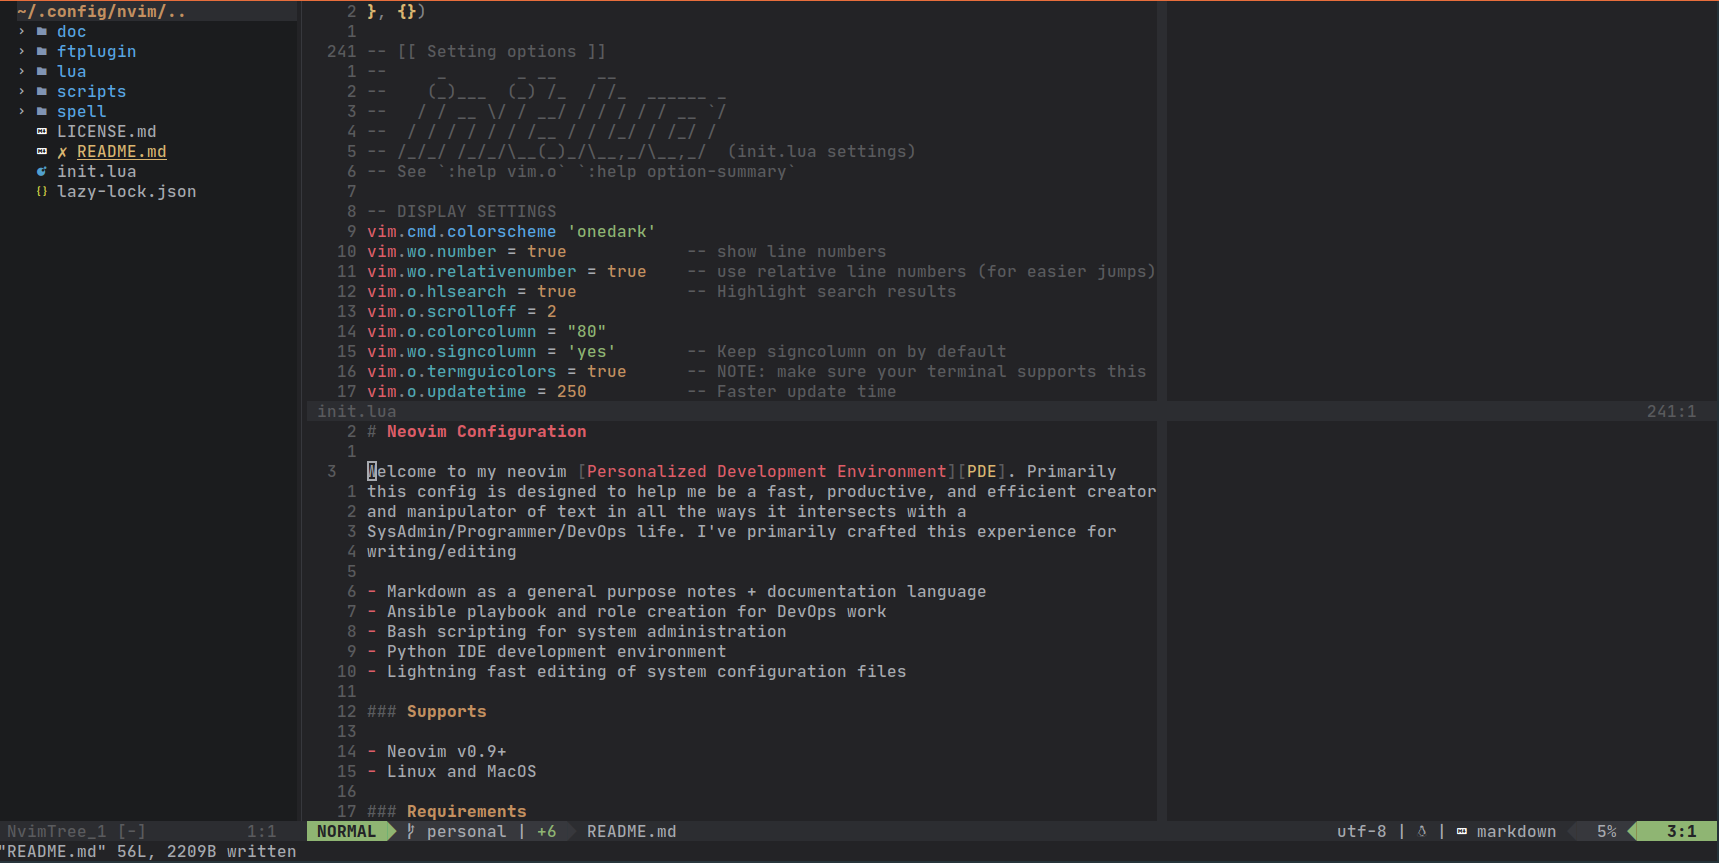
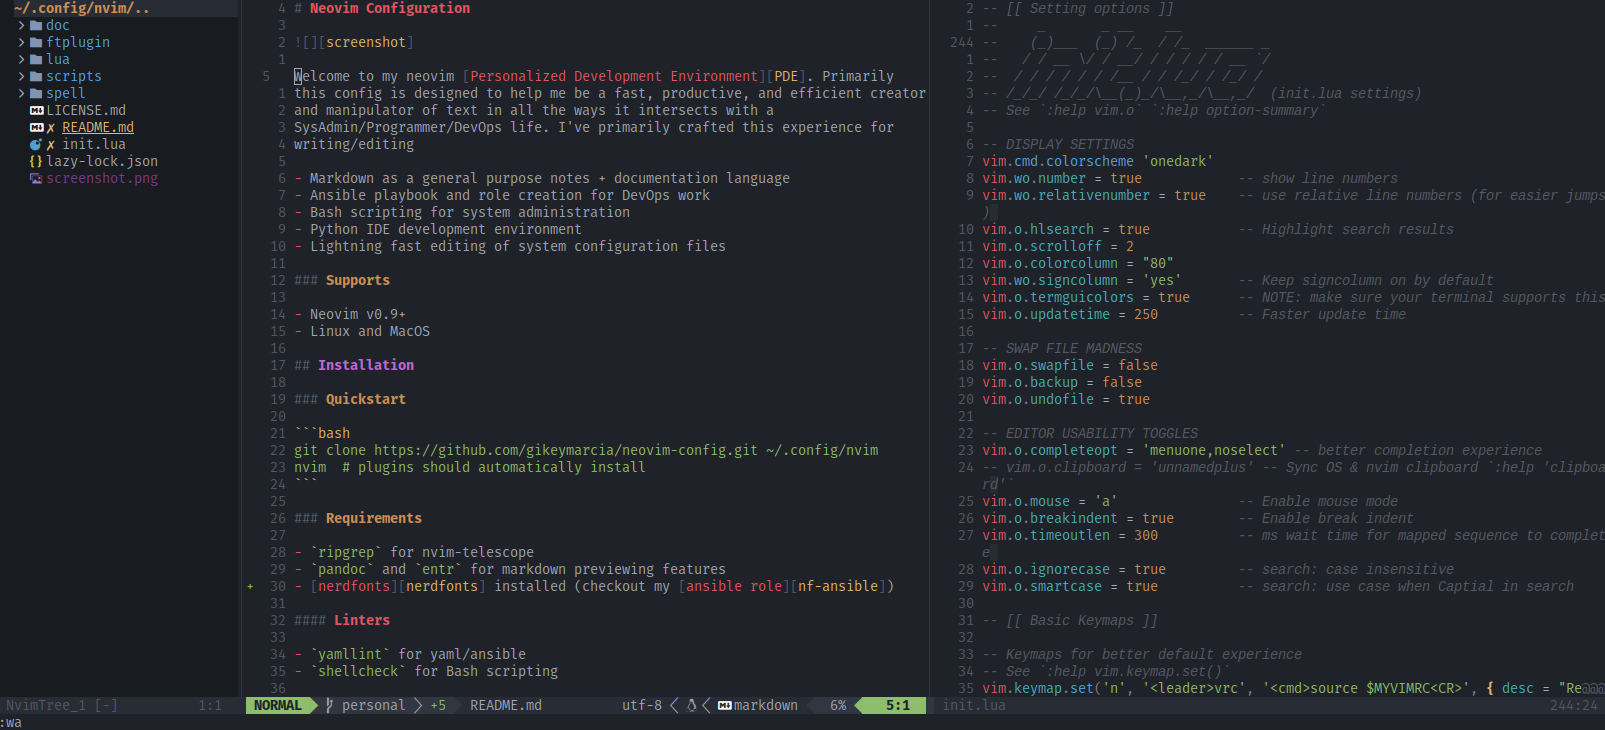
new screenshot showing nerdfont integration

diff --git a/README.md b/README.md
@@ -32,6 +32,7 @@ nvim  # plugins should automatically install
 
 - `ripgrep` for nvim-telescope
 - `pandoc` and `entr` for markdown previewing features
+- [nerdfonts][nerdfonts] installed (checkout my [ansible role][nf-ansible])
 
 #### Linters
 
@@ -75,3 +76,7 @@ keymaps.
 "nvim-tree.lua: A File Explorer for Nvim"
 [screenshot]: <./screenshot.png>
 "A view of this config working on editing this project." 
+[nerdfonts]: <https://www.nerdfonts.com/>
+"Iconic font aggregator, collection, and patcher"
+[nf-ansible]: <https://github.com/gikeymarcia/ansible-role-nerdfonts>
+"Ansible role to install nerdfonts into system"
